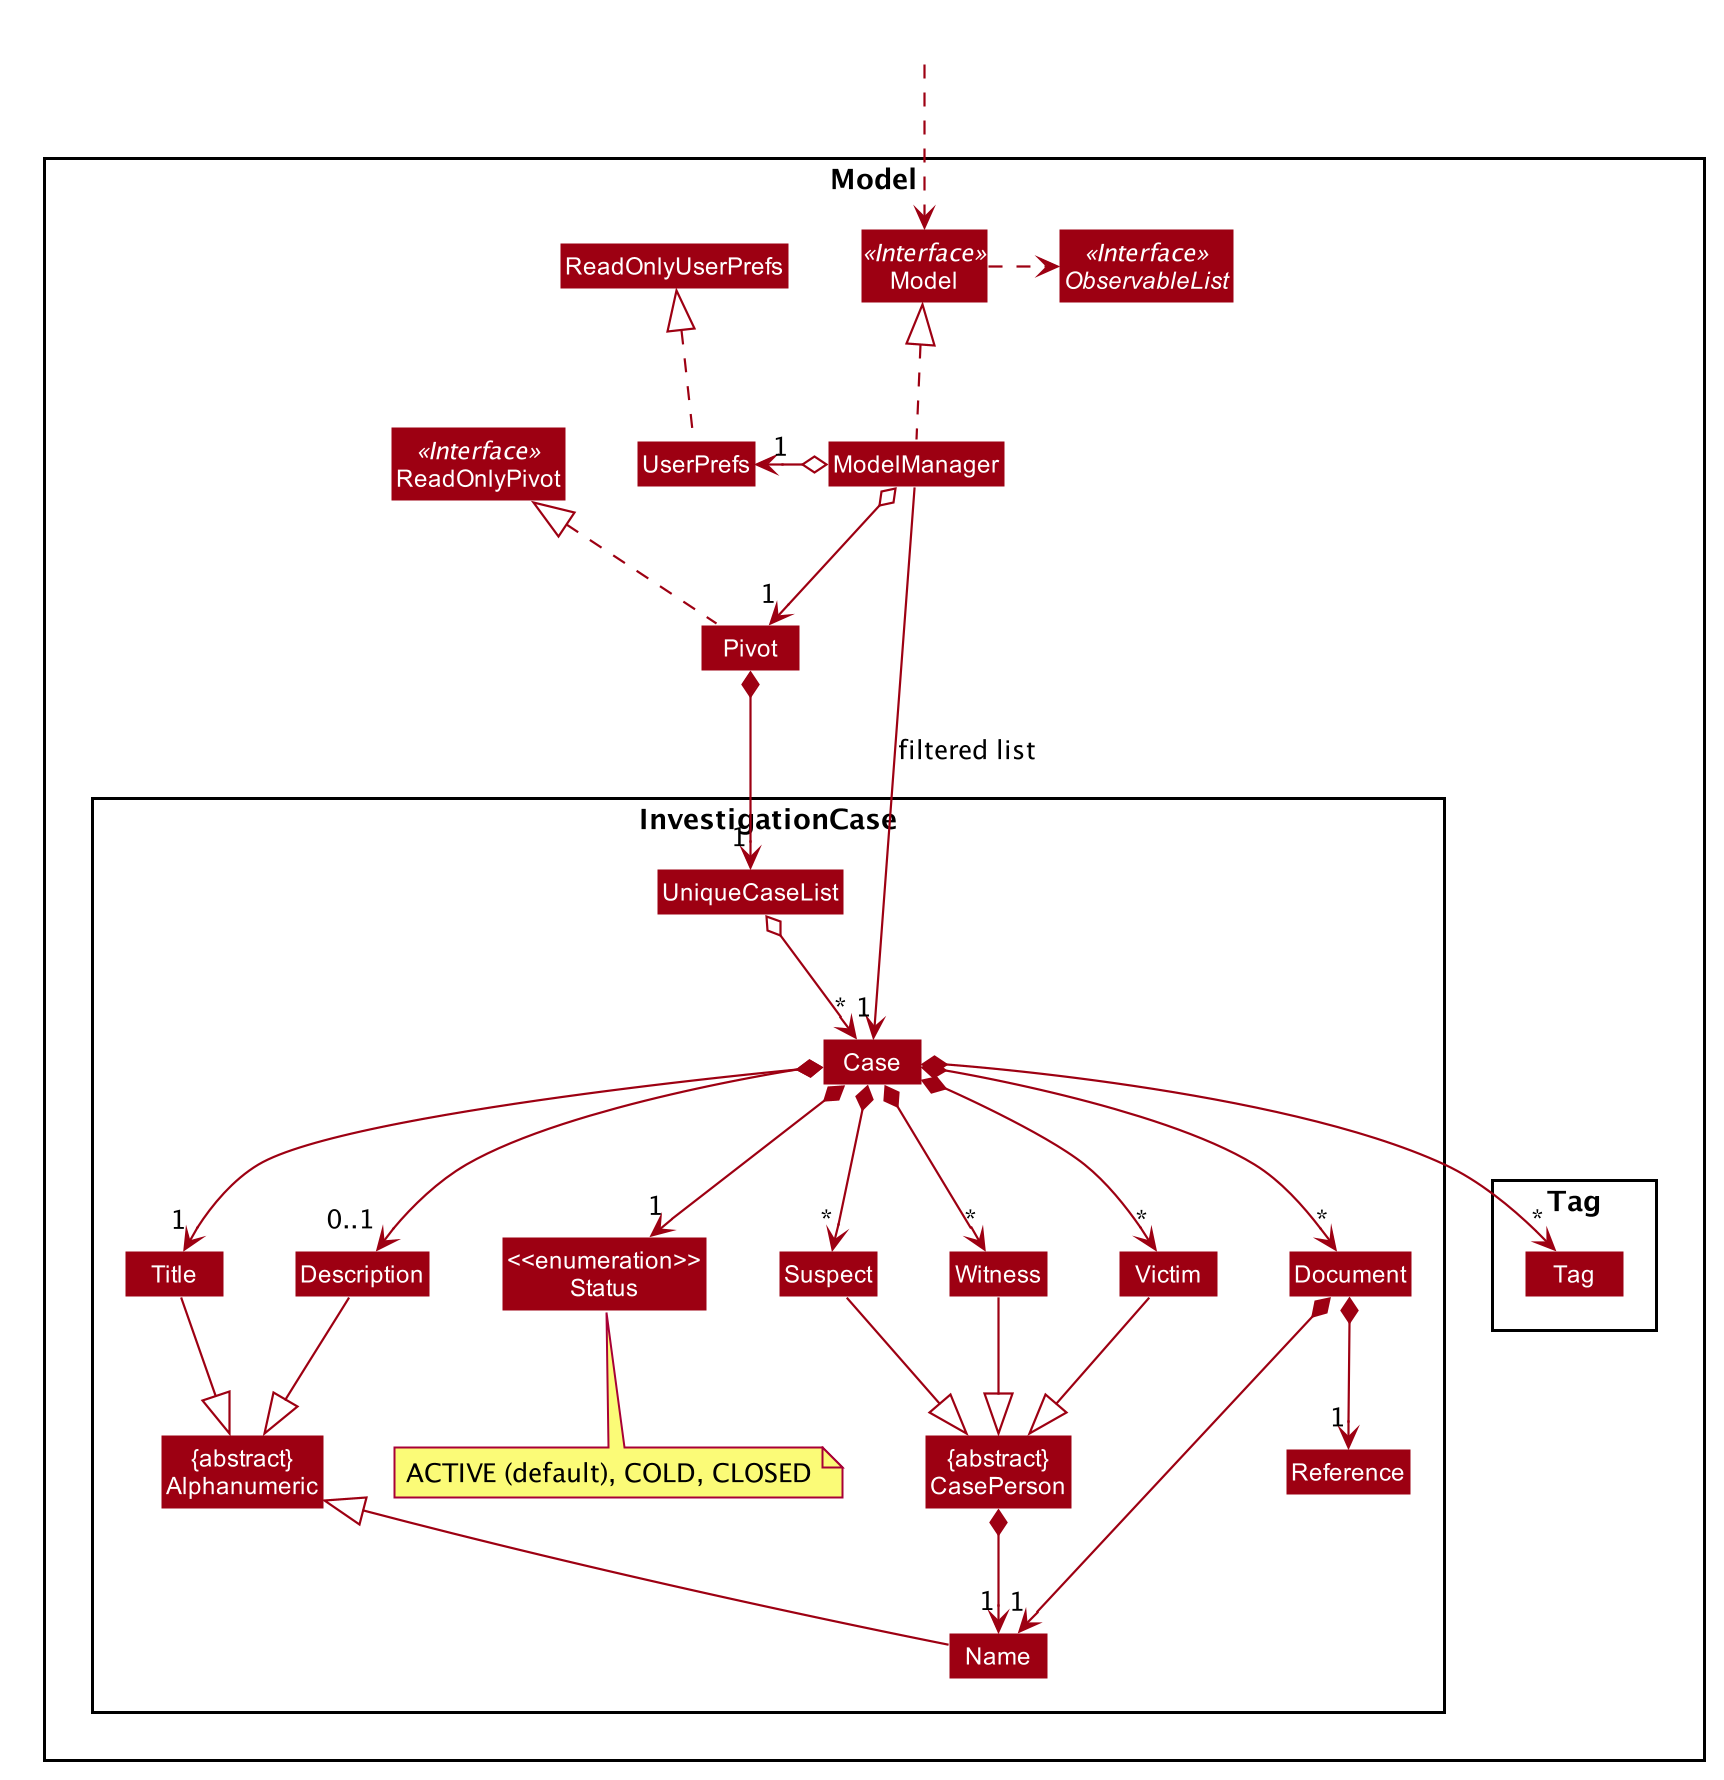
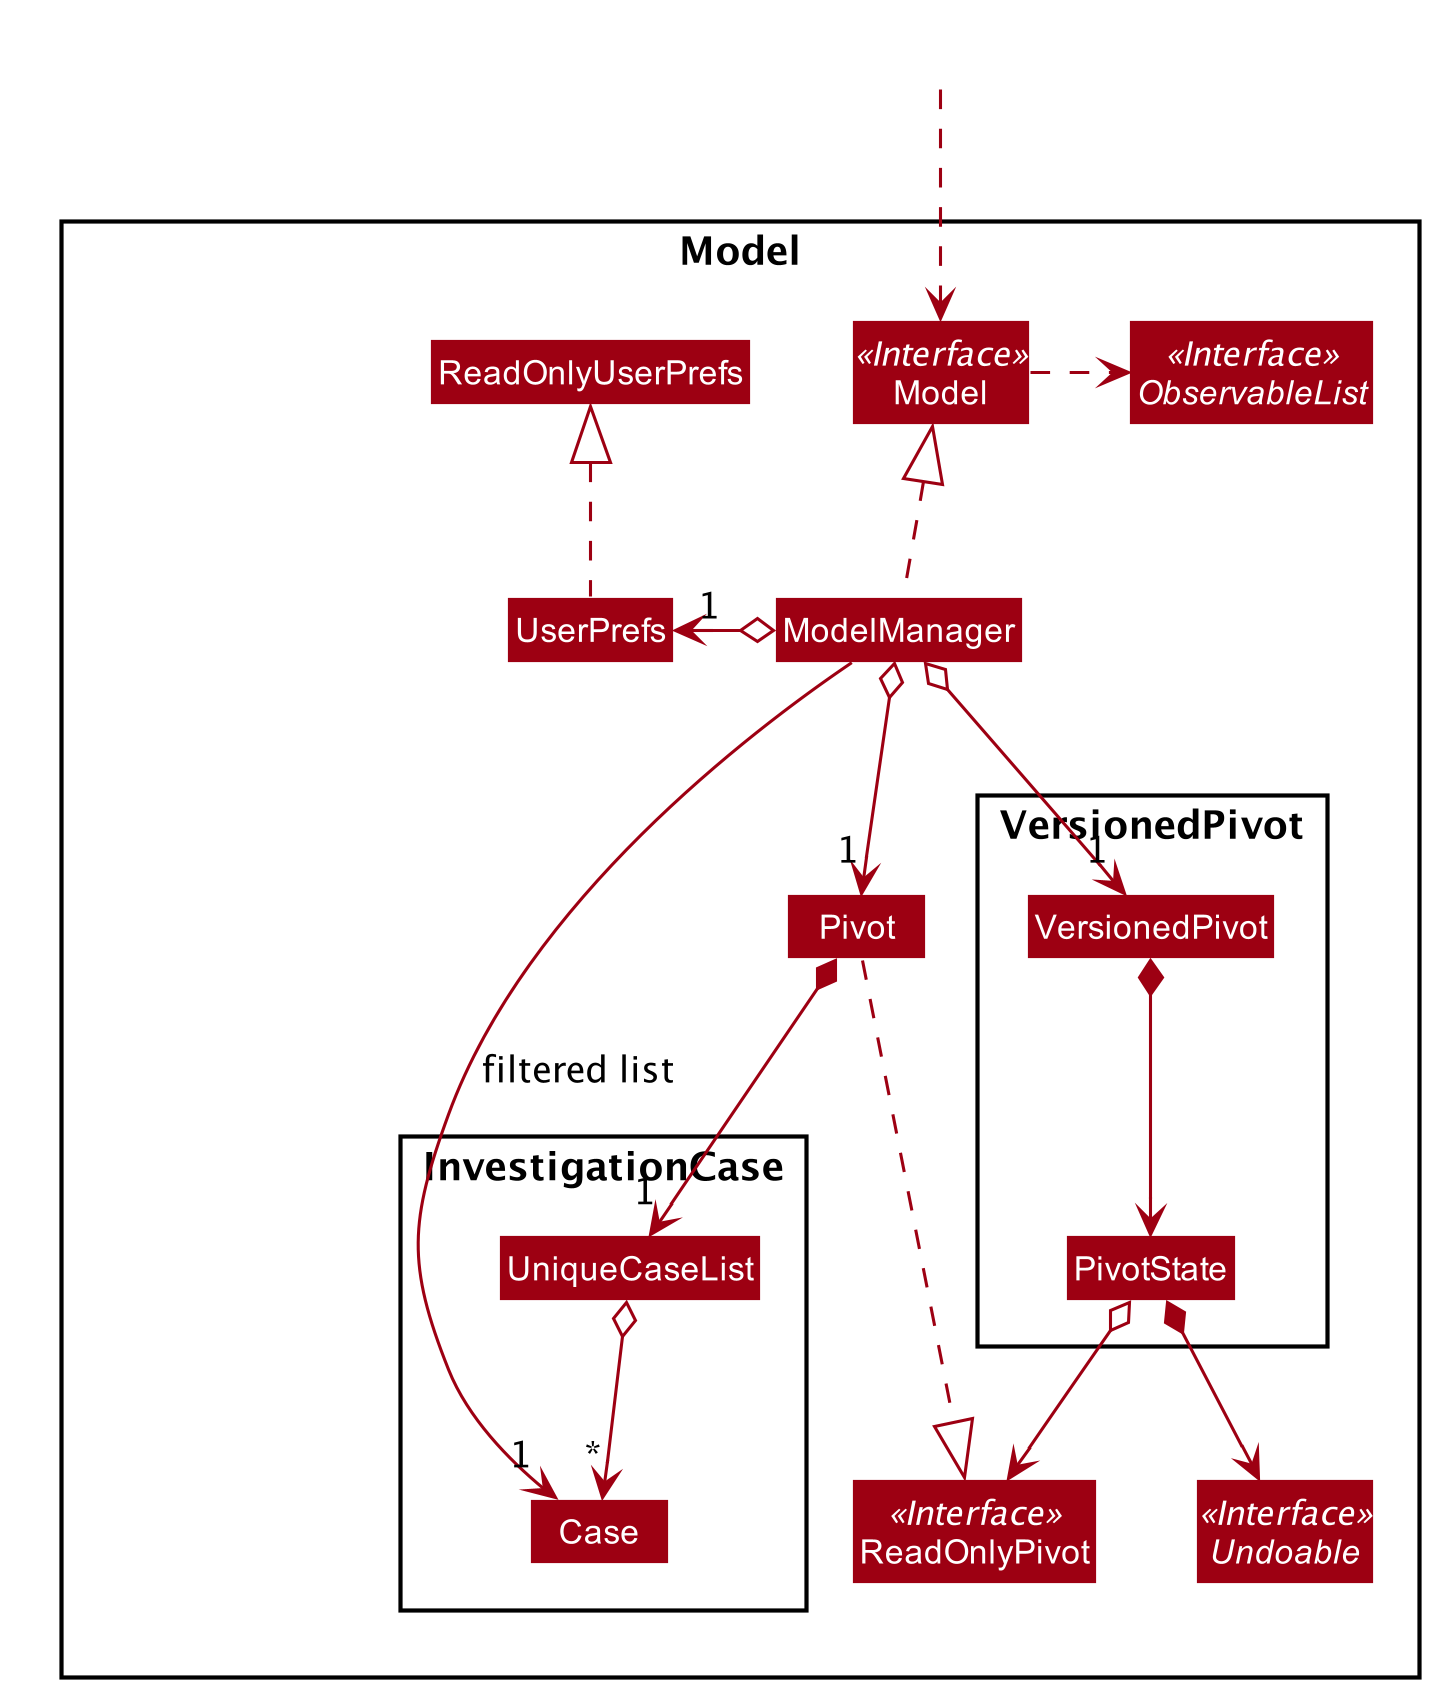
Update ModelClassDiagram to include VersionedPivot

diff --git a/src/main/java/seedu/pivot/model/VersionedPivot.java b/src/main/java/seedu/pivot/model/VersionedPivot.java
@@ -9,7 +9,7 @@ import java.util.List;
 import seedu.pivot.logic.commands.Page;
 import seedu.pivot.logic.commands.Undoable;
 
-public class VersionedPivot extends Pivot {
+public class VersionedPivot {
 
     public static final String INITIAL_COMMAND = "Initial command";
     public static final int INITIAL_STATE = 0;

diff --git a/docs/DeveloperGuide.md b/docs/DeveloperGuide.md
@@ -118,12 +118,13 @@ The case below follows the same execution above. However, the AddCommandParser f
 
 ![Structure of the Model Component](images/ModelClassDiagram.png)
 
-**API** : [`Model.java`](hhttps://github.com/AY2021S1-CS2103-F09-2/tp/blob/master/src/main/java/seedu/pivot/model/Model.java)
+**API** : [`Model.java`](https://github.com/AY2021S1-CS2103-F09-2/tp/blob/master/src/main/java/seedu/pivot/model/Model.java)
 
 The `Model`,
 
 * stores a `UserPref` object that represents the user’s preferences.
-* stores the address book data.
+* stores the PIVOT data.
+* stores the history of PIVOT states.
 * exposes an unmodifiable `ObservableList<Case>` that can be 'observed' e.g. the UI can be bound to this list so that the UI automatically updates when the data in the list change.
 * does not depend on any of the other three components.
 
@@ -282,8 +283,8 @@ Commands that are able to be undone/redone will implement an interface `Undoable
 When a main page command is being undone/redone, PIVOT will return to the main page. The method `Undoable#getPage())`
 informs the caller whether the command is a main page command or a case page command.
 
-The undo/redo feature is facilitated by `VersionedPivot`. It extends `Pivot` with an undo/redo history,
-stored internally as a `pivotStateList`, which is a list of `PivotState` objects, and a `currentStatePointer`.
+The undo/redo feature is facilitated by `VersionedPivot`. It has an undo/redo history of `PivotState` objects,
+stored internally as a `pivotStateList`, and a `currentStatePointer`.
 `VersionedPivot` also keeps track of the command that is to be undone/redone as `commandResult`, and the corresponding
 command message as `commandMessageResult`. Both `commandResult` and `commandMessageResult` will be retrieved from
 the `PivotState` objects stored in `pivotStateList`.
